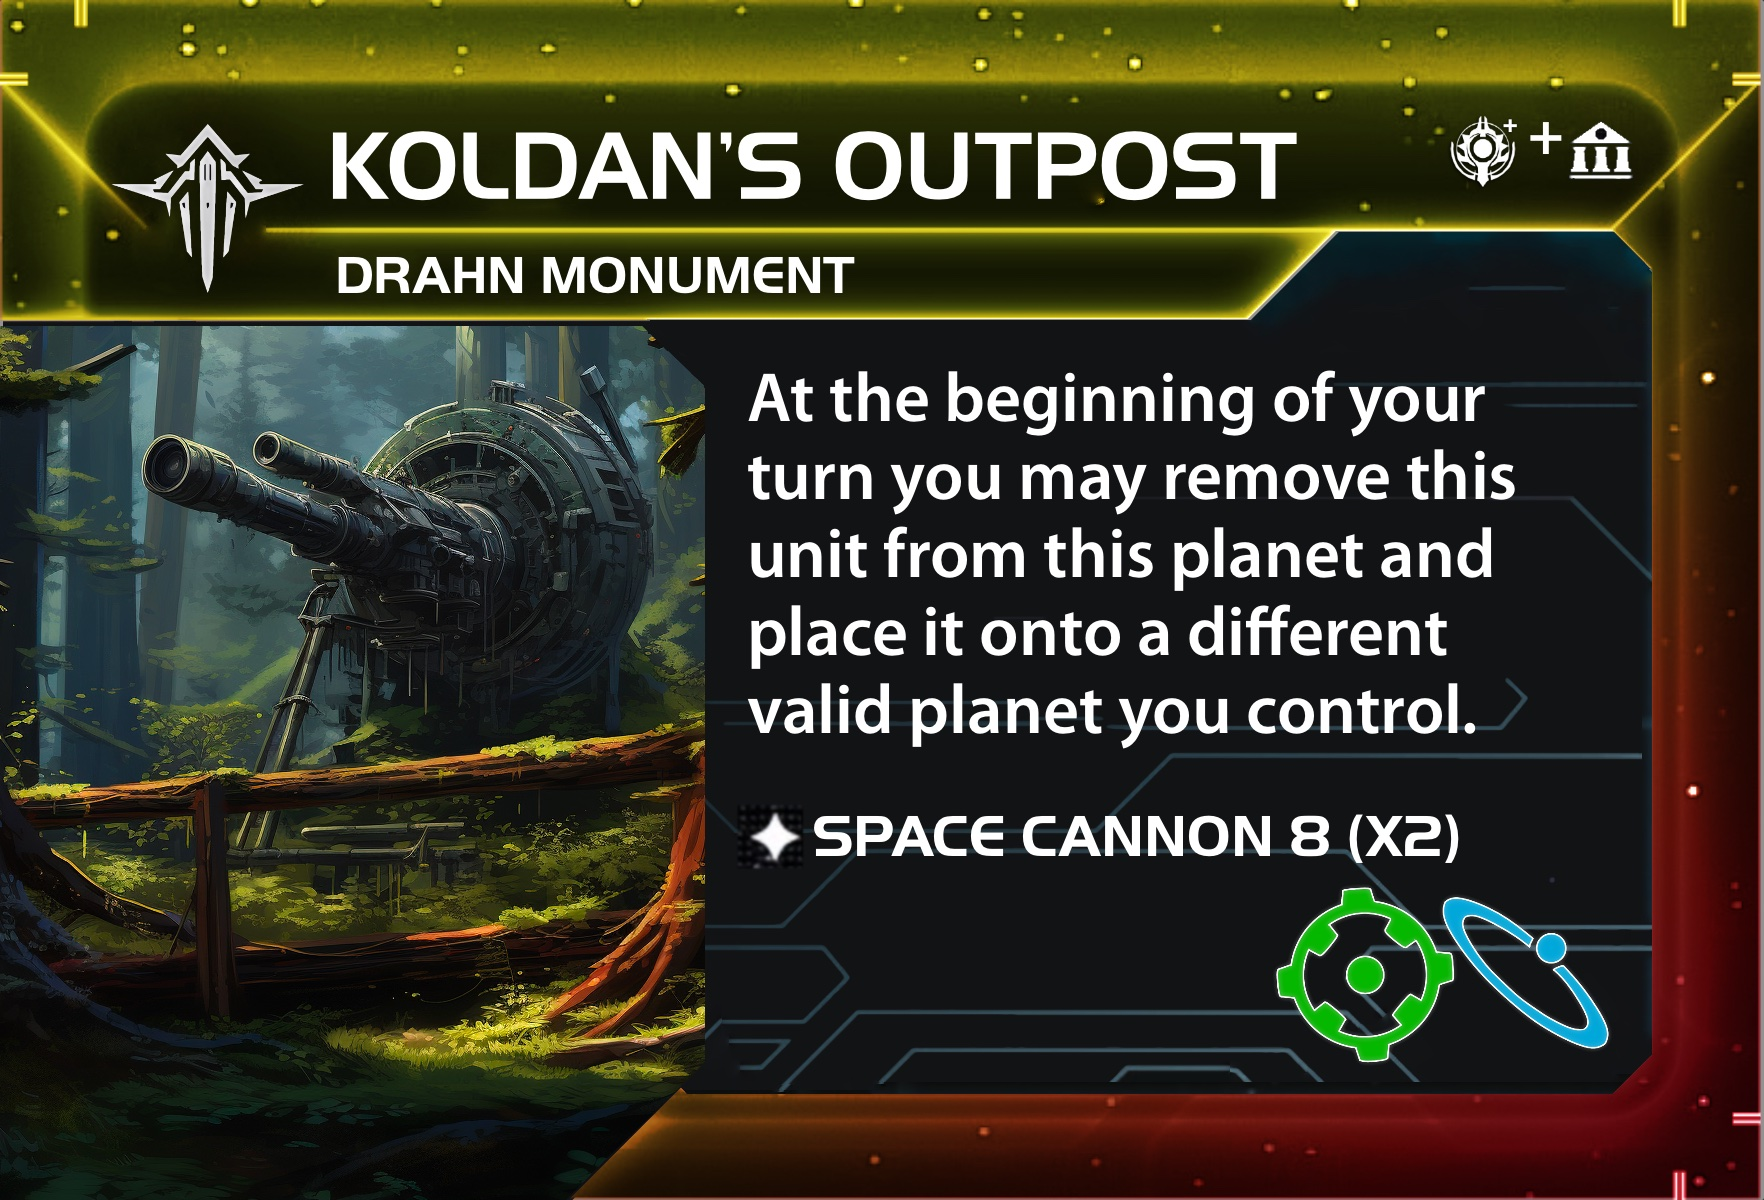
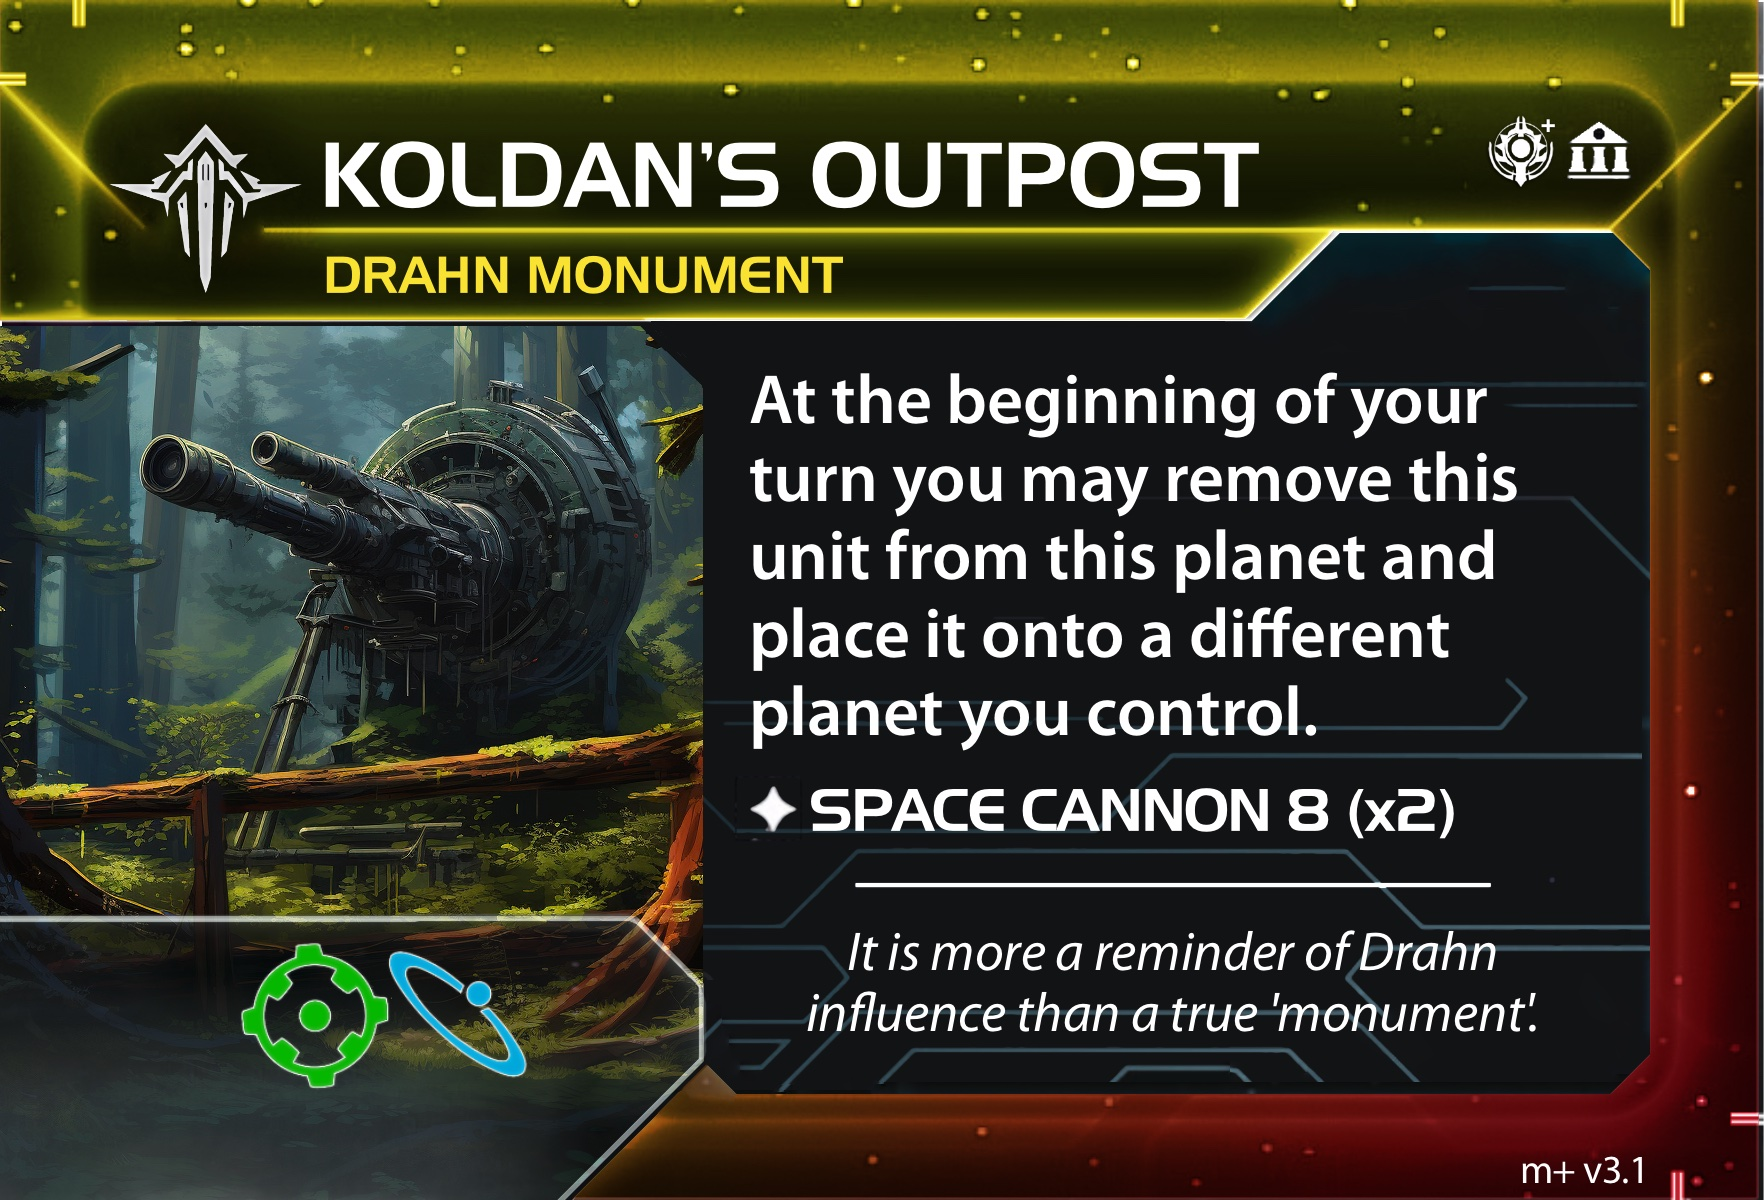
Show only type/faction in editor asset preview; split Unit into subtypes

diff --git a/expansions/sites/keleres+/drahn.html b/expansions/sites/keleres+/drahn.html
@@ -44,7 +44,7 @@
 <header class="bg-panel border-b border-border p-6">
   <div class="max-w-6xl mx-auto">
     <h1 class="text-3xl font-bold">Drahn Cards</h1>
-    <p class="text-muted mt-2"><a href="index.html" class="text-accent hover:underline">keleres+</a> &rarr; 5 cards</p>
+    <p class="text-muted mt-2"><a href="index.html" class="text-accent hover:underline">keleres+</a> &rarr; 7 cards</p>
   </div>
 </header>
 
@@ -81,7 +81,7 @@ You may exhaust this card at the start of a player's turn; that player may eithe
              data-card-faction="Drahn"
              data-card-section="Drahn Cards"
              data-card-group="Drahn"
-             data-card-description="After you perform a tactical action:
+             data-card-description="After you resolve a tactical action:
 
 You may spend 3 trade goods to move 1 of your ships from the active system to an adjacent system that does not contain another player's ships."
              data-card-faq="[]"
@@ -129,6 +129,50 @@ You may spend 3 trade goods to move 1 of your ships from the active system to an
              data-card-front-path="assets/images/Drahn/Drahn Commander Front.jpg">
           <img src="assets/images/Drahn/Drahn Commander Front.jpg" alt="Kip Lok Sil" class="w-full rounded-lg"/>
           <p class="text-sm text-center mt-2 font-medium truncate" title="Kip Lok Sil">Kip Lok Sil</p>
+          
+          <p class="text-xs text-center text-muted truncate">Drahn</p>
+          
+        </div>
+        
+        <div class="card-item bg-panel border border-border rounded-xl p-3 shadow-lg hover:border-accent transition-colors cursor-pointer"
+             data-card-id="Drahn Mech"
+             data-card-name="Contender"
+             data-card-type="Unit"
+             data-card-faction="Drahn"
+             data-card-section="Drahn Cards"
+             data-card-group="Drahn"
+             data-card-description="Apply +1 to this unit's combat rolls for each secret objective you have scored."
+             data-card-faq="[]"
+             data-card-back="Drahn/Drahn Mech Back.jpg"
+             data-card-front-path="assets/images/Drahn/Drahn Mech.jpg">
+          <img src="assets/images/Drahn/Drahn Mech.jpg" alt="Contender" class="w-full rounded-lg"/>
+          <p class="text-sm text-center mt-2 font-medium truncate" title="Contender">Contender</p>
+          
+          <p class="text-xs text-center text-muted truncate">Drahn</p>
+          
+        </div>
+        
+        <div class="card-item bg-panel border border-border rounded-xl p-3 shadow-lg hover:border-accent transition-colors cursor-pointer"
+             data-card-id="Drahn Monument"
+             data-card-name="Koldan's Outpost"
+             data-card-type="Unit"
+             data-card-faction="Drahn"
+             data-card-section="Drahn Cards"
+             data-card-group="Drahn"
+             data-card-description="**Ability**
+At the beginning of your turn you may remove this unit from this planet and place it onto a different valid planet you control.
+
+**SPACE CANNON 8 (x2)**
+
+Can only be placed on Industrial and Cultural planets.
+
+**Flavor Text**
+*It is more a reminder of Drahn influence than a true monument.*"
+             data-card-faq="[]"
+             data-card-back=""
+             data-card-front-path="assets/images/Drahn/Drahn Monument.jpg">
+          <img src="assets/images/Drahn/Drahn Monument.jpg" alt="Koldan's Outpost" class="w-full rounded-lg"/>
+          <p class="text-sm text-center mt-2 font-medium truncate" title="Koldan's Outpost">Koldan's Outpost</p>
           
           <p class="text-xs text-center text-muted truncate">Drahn</p>
           

diff --git a/expansions/editor/templates/editor.html b/expansions/editor/templates/editor.html
@@ -264,7 +264,19 @@
           <option value="Technology">Technology</option>
           <option value="Tile">Tile</option>
           <option value="Token">Token</option>
-          <option value="Unit">Unit</option>
+          <option value="Unit - War sun">Unit - War sun</option>
+          <option value="Unit - Dreadnought">Unit - Dreadnought</option>
+          <option value="Unit - Flagship">Unit - Flagship</option>
+          <option value="Unit - Special">Unit - Special</option>
+          <option value="Unit - Fighter">Unit - Fighter</option>
+          <option value="Unit - Mech">Unit - Mech</option>
+          <option value="Unit - Carrier">Unit - Carrier</option>
+          <option value="Unit - Cruiser">Unit - Cruiser</option>
+          <option value="Unit - Destroyer">Unit - Destroyer</option>
+          <option value="Unit - Monument">Unit - Monument</option>
+          <option value="Unit - Basic Structure">Unit - Basic Structure</option>
+          <option value="Unit - Advanced Structure">Unit - Advanced Structure</option>
+          <option value="Unit - Infantry">Unit - Infantry</option>
         </select>
       </div>
       <div>
@@ -596,15 +608,9 @@ function populateBackOptions(path, currentBack, filterText) {
 }
 
 function renderAssetPreview(asset) {
-  const sectionTitle = (sections.find(s => s.id === asset.section) || {}).title || asset.section || 'cards';
   const badges = [
     asset.type ? `<span class="asset-badge accent">${asset.type}</span>` : '',
     asset.faction ? `<span class="asset-badge">${asset.faction}</span>` : '',
-    `<span class="asset-badge">${sectionTitle}</span>`,
-    asset.group ? `<span class="asset-badge">${asset.group}</span>` : '',
-    asset.back ? `<span class="asset-badge">Back: ${asset.back}</span>` : '',
-    asset.hidden ? `<span class="asset-badge danger">Excluded</span>` : '',
-    asset.configured ? `<span class="asset-badge accent">Configured</span>` : `<span class="asset-badge">Not configured</span>`,
   ].filter(Boolean).join('');
   document.getElementById('asset-badges').innerHTML = badges;
 

diff --git a/expansions/sites/keleres+/index.html b/expansions/sites/keleres+/index.html
@@ -82,7 +82,7 @@
   
   
   <section class="bg-panel border border-border rounded-xl p-6 shadow-lg">
-    <h2 class="text-xl font-semibold mb-4">171 Cards</h2>
+    <h2 class="text-xl font-semibold mb-4">169 Cards</h2>
     <p class="text-muted mb-4">Browse all cards in the <a href="cards.html" class="text-accent hover:underline">Cards section</a>.</p>
   </section>
   

diff --git a/expansions/README.md b/expansions/README.md
@@ -70,7 +70,7 @@ The editor stores every detected image as an entry in `config.json`:
 
 - `configured` — Set to true once you have reviewed the asset.
 - `hidden` — Excluded from the generated site.
-- `type` — One of: Action Card, Agent, Agenda, Alliance, Breakthrough, Commander, Faction Sheet, Hero, Legendary Ability, Other Component, Planet, Planet Ability, Promissory Note, Public Objective, Relic, Relic Fragment, Rulebook, Scenario, Secret Objective, Station, Technology, Tile, Token, Unit.
+- `type` — One of: Action Card, Agent, Agenda, Alliance, Breakthrough, Commander, Faction Sheet, Hero, Legendary Ability, Other Component, Planet, Planet Ability, Promissory Note, Public Objective, Relic, Relic Fragment, Rulebook, Scenario, Secret Objective, Station, Technology, Tile, Token, Unit - War sun, Unit - Dreadnought, Unit - Flagship, Unit - Special, Unit - Fighter, Unit - Mech, Unit - Carrier, Unit - Cruiser, Unit - Destroyer, Unit - Monument, Unit - Basic Structure, Unit - Advanced Structure, Unit - Infantry.
 - `faction` — Optional faction name. The dropdown is populated from distinct faction values across the expansion, but you can type any value.
 - `section` — Which generated page the card appears on.
 - `group` — Used to render cards in named groups on the page.